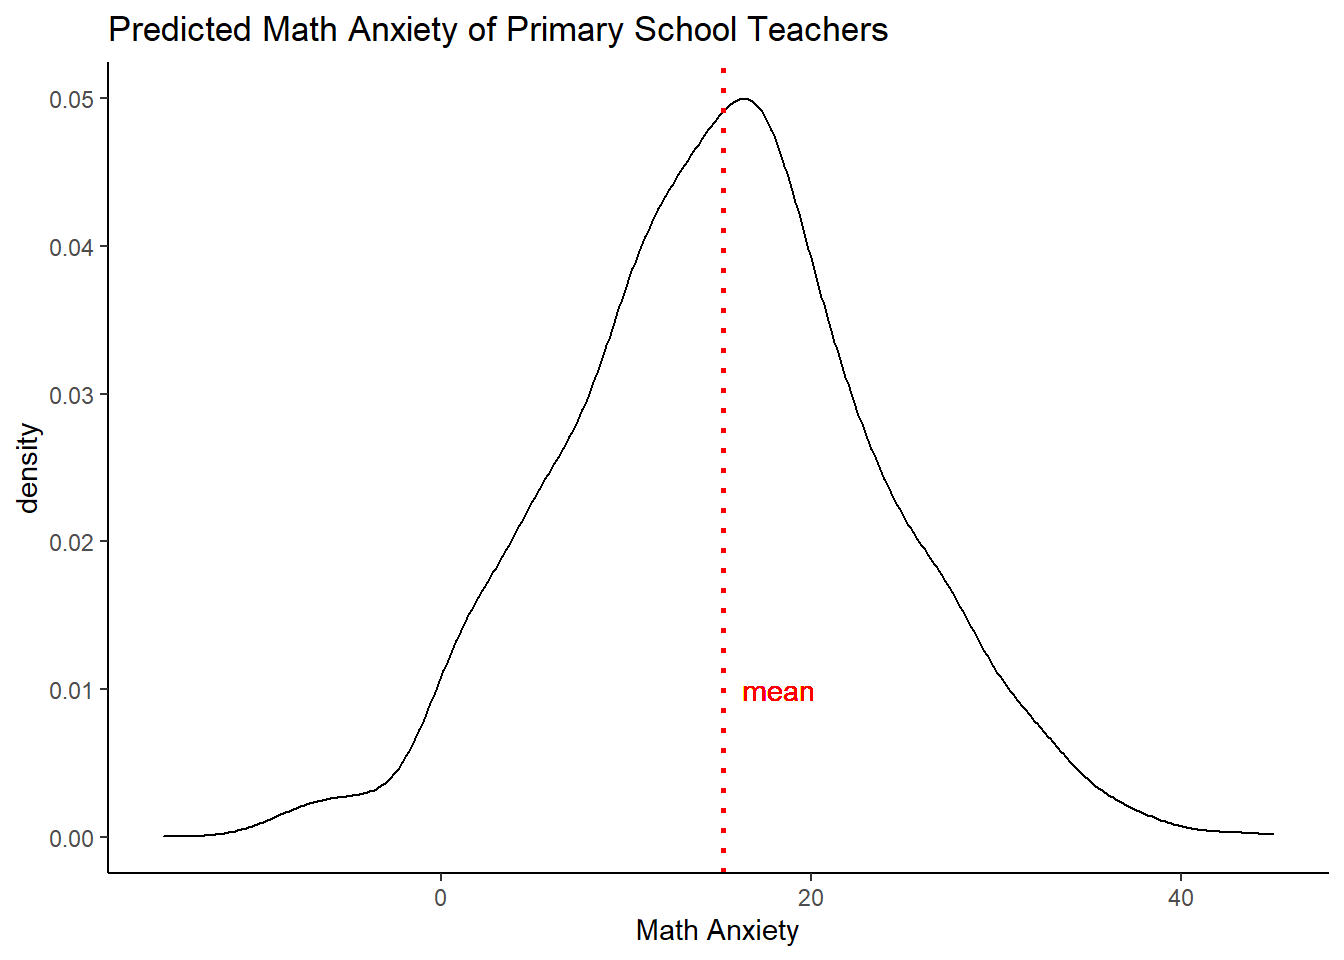
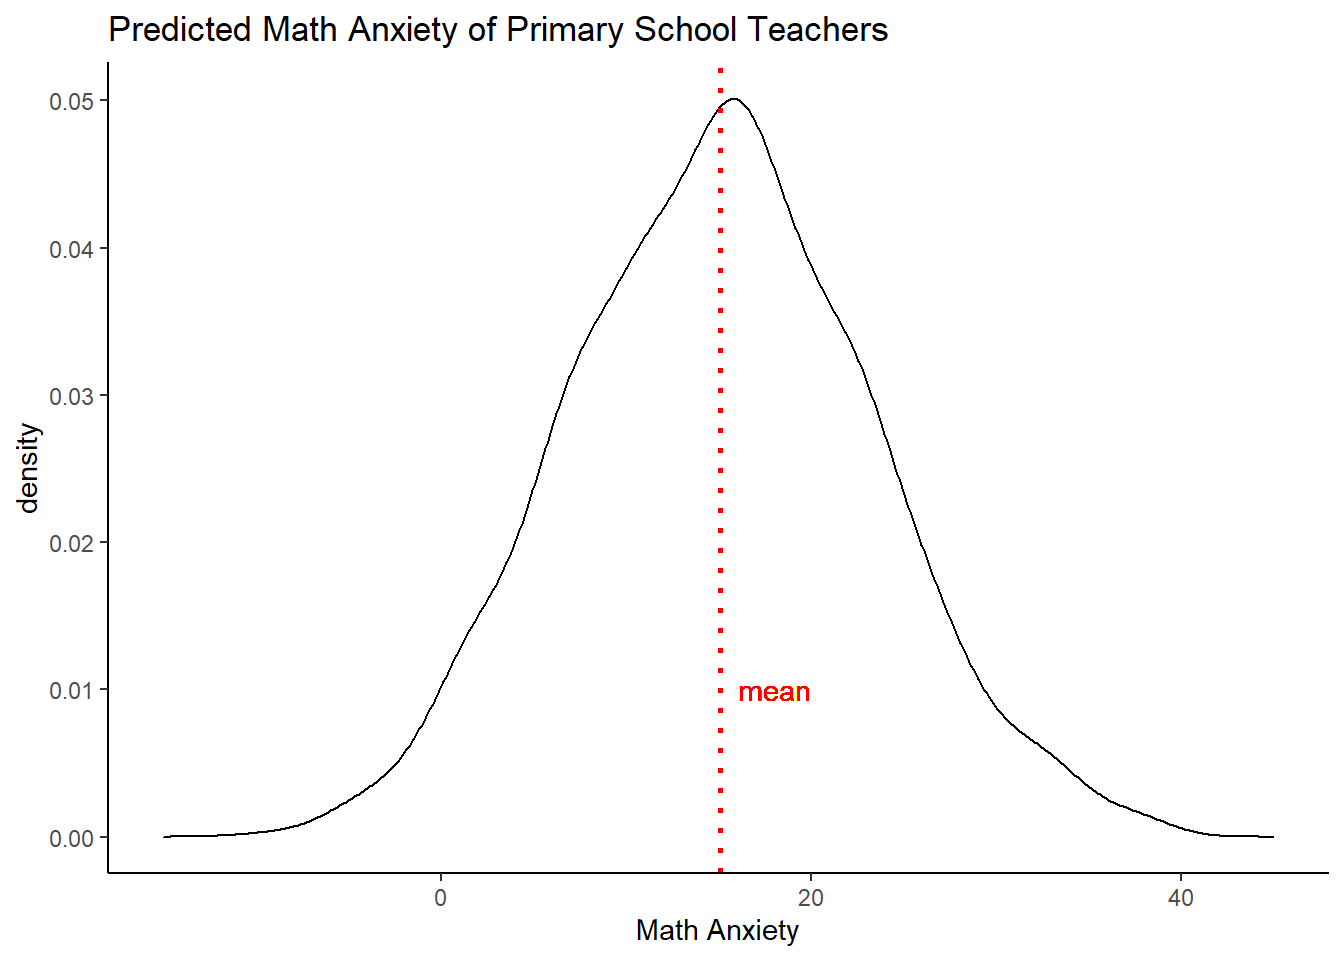
Fundamentals 1 textual corrections

diff --git a/content/post/2021-04-11-nuts-and-bolts-1-ml-and-ols/index.en.html b/content/post/2021-04-11-nuts-and-bolts-1-ml-and-ols/index.en.html
@@ -111,13 +111,13 @@ return(-logl)
 p&lt;-optim(c(5,2,4),lf,method=&quot;BFGS&quot;,hessian=T,y=data_y,X=X)
 # print out the paramter estimates
 p$par</code></pre>
-<pre><code>## [1]  2.839842  1.987627 18.586866</code></pre>
-<p>Let’s check how well ML has done. It estimates 2.84 for the intercept (true value 3) and 1.99 for the slope (true value 2). The real variance was 16 and is estimated to be 18.6.</p>
+<pre><code>## [1]  2.825519  2.010162 13.187238</code></pre>
+<p>Let’s check how well ML has done. It estimates 2.83 for the intercept (true value 3) and 2.01 for the slope (true value 2). The real variance was 16 and is estimated to be 13.2.</p>
 <p>We had only 65 data points, so we should give our model some slack. How much slack? That can also be computed from the likelihood formula in the form of standard errors. What follows is a bit of a technical story, but it hopefully gives some intuition for where standard errors come from.</p>
 <p>We start by taking second partial derivatives of the log-likelihood function with respect to the paramaters. We can arrange these values in a matrix. We do this in such a way that we get a so called Hessian matrix.
 <span class="math display">\[\mathbf{H}(\theta)=\frac{\partial^{2}}{\partial\theta_{i}\partial\theta_{j}}ln(\mathcal{L}(\theta))\]</span>
 You may remember this matrix from a calculus class where you approximated some wild surface with a quadratic graph. In the process, you had to calculate the Hessian. This is what we are doing for wild likelihood surfaces (not the ones we are dealing with in this post) as well. We approximate them with a quadratic surface. If you evaluate the Hessian at a critical point (here: the maximum of the likelihood surface), it gives you information about the curvature. What matters here is that it tells you the steepness near the peak. If the region around the peak is very steep, then you are more certain of your estimate.</p>
-<p>If you multiply the Hessian by -1 you get a matrix that is called the Fisher Information (I). You do this because the second derivative at a maximum is negative. So this operation cancels that minus sign and makes the Fisher Information positive.
+<p>If you multiply the Hessian by -1 you get a matrix that is called the observed Fisher Information (I). You do this because the second derivative at a maximum is negative. So this operation cancels that minus sign and makes the Fisher Information positive.
 <span class="math display">\[\mathbf{I}(\theta)=-\frac{\partial^{2}}{\partial\theta_{i}\partial\theta_{j}}ln(\mathcal{L}(\theta))\]</span>
 So a bigger value for I means that the curvature around the maximum is greater. This is a good thing, because it means you are more sure of your estimate.</p>
 <p>Next, if we take the inverse of the Fisher Information, we get the variance of the maximum likelihood estimate.
@@ -125,14 +125,14 @@ So a bigger value for I means that the curvature around the maximum is greater. 
 We skip the derivation, which is actually not too bad. More work is the stronger claim that the ML estimates are normal in distribution as n gets larger.
 <span class="math display">\[\hat{\theta}_{\mathrm{ML}}\stackrel{a}{\sim}\mathcal{N}\left(\theta_{0}, [\mathbf{I}(\hat{\theta}_{\mathrm{ML}})]^{-1}\right)\]</span>
 A proof can be found <a href="https://ocw.mit.edu/courses/mathematics/18-443-statistics-for-applications-fall-2006/lecture-notes/lecture3.pdf">here</a>. This result looks like the Central Limit Theorem (CLT), but is more general. After all, <span class="math inline">\(\hat{\theta}_{\mathrm{ML}}\)</span> does not only stand for the mean (as in the CLT), but can be any parameter that we care about in the model.</p>
-<p>We will now approximate this distribution with data from our sample. We already multiplied the output of the <code>lf</code> function by -1 in the code, so we just need to invert the Hessian that <code>optim</code> spits out to get the Fisher Information matrix. If we take the square root of the diagonal entries, we can read off the standard errors of our coefficients. We compare them with the output of lm, which calculates standard errors via another route.</p>
+<p>We will now approximate this distribution with data from our sample. We already multiplied the output of the <code>lf</code> function by -1 in the code, so we just need to invert the Hessian that <code>optim</code> spits out to get the Fisher Information matrix. If we take the square root of the diagonal entries, we can read off the standard errors of our coefficients. We compare them with the output of <code>lm</code>, which calculates standard errors via another route.</p>
 <pre class="r"><code># invert hessian to calculate Fisher Information matrix
 OI&lt;-solve(p$hessian)
 
 # standard errors are squared values on diagonal
 se &lt;- sqrt(diag(OI))
 se</code></pre>
-<pre><code>## [1] 0.89100453 0.04180575 2.62859250</code></pre>
+<pre><code>## [1] 0.69969742 0.02957561 1.86496260</code></pre>
 <pre class="r"><code># Compare with OLS using lm
 dat_fake &lt;- as.data.frame(cbind(X,data_y))
 summary(lm(data=dat_fake, data_y ~ 1 + data_x))</code></pre>
@@ -141,20 +141,20 @@ summary(lm(data=dat_fake, data_y ~ 1 + data_x))</code></pre>
 ## lm(formula = data_y ~ 1 + data_x, data = dat_fake)
 ## 
 ## Residuals:
-##      Min       1Q   Median       3Q      Max 
-## -11.2370  -3.2858   0.0379   3.1625   9.5223 
+##     Min      1Q  Median      3Q     Max 
+## -8.3200 -2.4905  0.1656  1.9911  8.2984 
 ## 
 ## Coefficients:
 ##             Estimate Std. Error t value Pr(&gt;|t|)    
-## (Intercept)  2.83970    0.90005   3.155  0.00213 ** 
-## data_x       1.98763    0.04223  47.067  &lt; 2e-16 ***
+## (Intercept)  2.82551    0.70680   3.998 0.000124 ***
+## data_x       2.01016    0.02988  67.284  &lt; 2e-16 ***
 ## ---
 ## Signif. codes:  0 &#39;***&#39; 0.001 &#39;**&#39; 0.01 &#39;*&#39; 0.05 &#39;.&#39; 0.1 &#39; &#39; 1
 ## 
-## Residual standard error: 4.355 on 98 degrees of freedom
-## Multiple R-squared:  0.9576, Adjusted R-squared:  0.9572 
-## F-statistic:  2215 on 1 and 98 DF,  p-value: &lt; 2.2e-16</code></pre>
-<p>We note that the estimates of the error are practically the same. The standard error of 0.891 around the intercept means that we are not surprised we were off by -0.16.</p>
+## Residual standard error: 3.668 on 98 degrees of freedom
+## Multiple R-squared:  0.9788, Adjusted R-squared:  0.9786 
+## F-statistic:  4527 on 1 and 98 DF,  p-value: &lt; 2.2e-16</code></pre>
+<p>We note that the estimates of the standard error by <code>optim</code> and <code>lm</code> are practically the same. The standard error of 0.7 around the intercept means that we are not surprised we were off by -0.174.</p>
 </div>
 <div id="simulating-from-a-likelihood-model" class="section level2">
 <h2>Simulating From a Likelihood Model</h2>
@@ -231,8 +231,9 @@ ggplot(expectedsim, aes(x=expectedsim[,1])) +
 <p>As expected, the uncertainty has been reduced, but based on these data, we are not even that confident saying what the average math anxiety will be for this group of teachers. The estimation uncertainty alone prevents this.</p>
 <div id="taking-stock" class="section level3">
 <h3>Taking Stock</h3>
-<p>In this post we went through some of the basics of maximum likelihood in the case of linear relations and Gaussian errors. The theory only shines though when we loosen both restrictions. That will be the topic of a future post on Generalized Linear Models in this series. We can already note pros and cons though to finish off the present discussion.</p>
-<p>A nice feature of likelihood theory is that it can flexibly generate point estimates of the parameter values we happen to be interested in. A downside is that the numbers that the likelihood function generates have no meaning for us. We therefore did not report them. That is, the surface that reflects the likelihood for all the possible parameter values is only meaningful when we compare the heights for parameter values within that space to each other (or with the same parameters for a different model based on the same data). In fact, we ignored the constant term that shifts the height up and down for precisely this reason. It does not matter if everything is shifted up or down. Only the relative heights matter.</p>
+<p>In this post we went through some of the basics of maximum likelihood in the case of linear relations and Gaussian errors. The theory only shines though when we loosen both restrictions. That will be the topic of a future post in this series on Generalized Linear Models. We can already note pros and cons though to finish off the present discussion.</p>
+<p>A downside is that the numbers that the likelihood function generates have no meaning for us. We therefore did not report them. That is, the surface that reflects the likelihood for all the possible parameter values is only meaningful when we compare the heights for parameter values within that space to each other (or with the same parameters for a different model based on the same data). In fact, we ignored the constant term that shifts the height up and down for precisely this reason. It does not matter if everything is shifted up or down. Only the relative heights matter.</p>
 <p>Moreover, the likelihood is conditional on the data that were used in the analysis. It therefore makes no sense to compare likelihoods for parameter values that were estimated on the basis of different data. In sum, likelihoods are meaningless if they are reported for only one model and they are meaningless when comparing models based on different data sets.</p>
+<p>A nice feature of likelihood theory is that it can flexibly generate point estimates for the parameters we happen to be interested in. As we shown, simulating the most likely points from the model - with fundamental and stochastic uncertainty - does add a layer to the analysis, but actually makes the results easier to interpret.</p>
 </div>
 </div>
